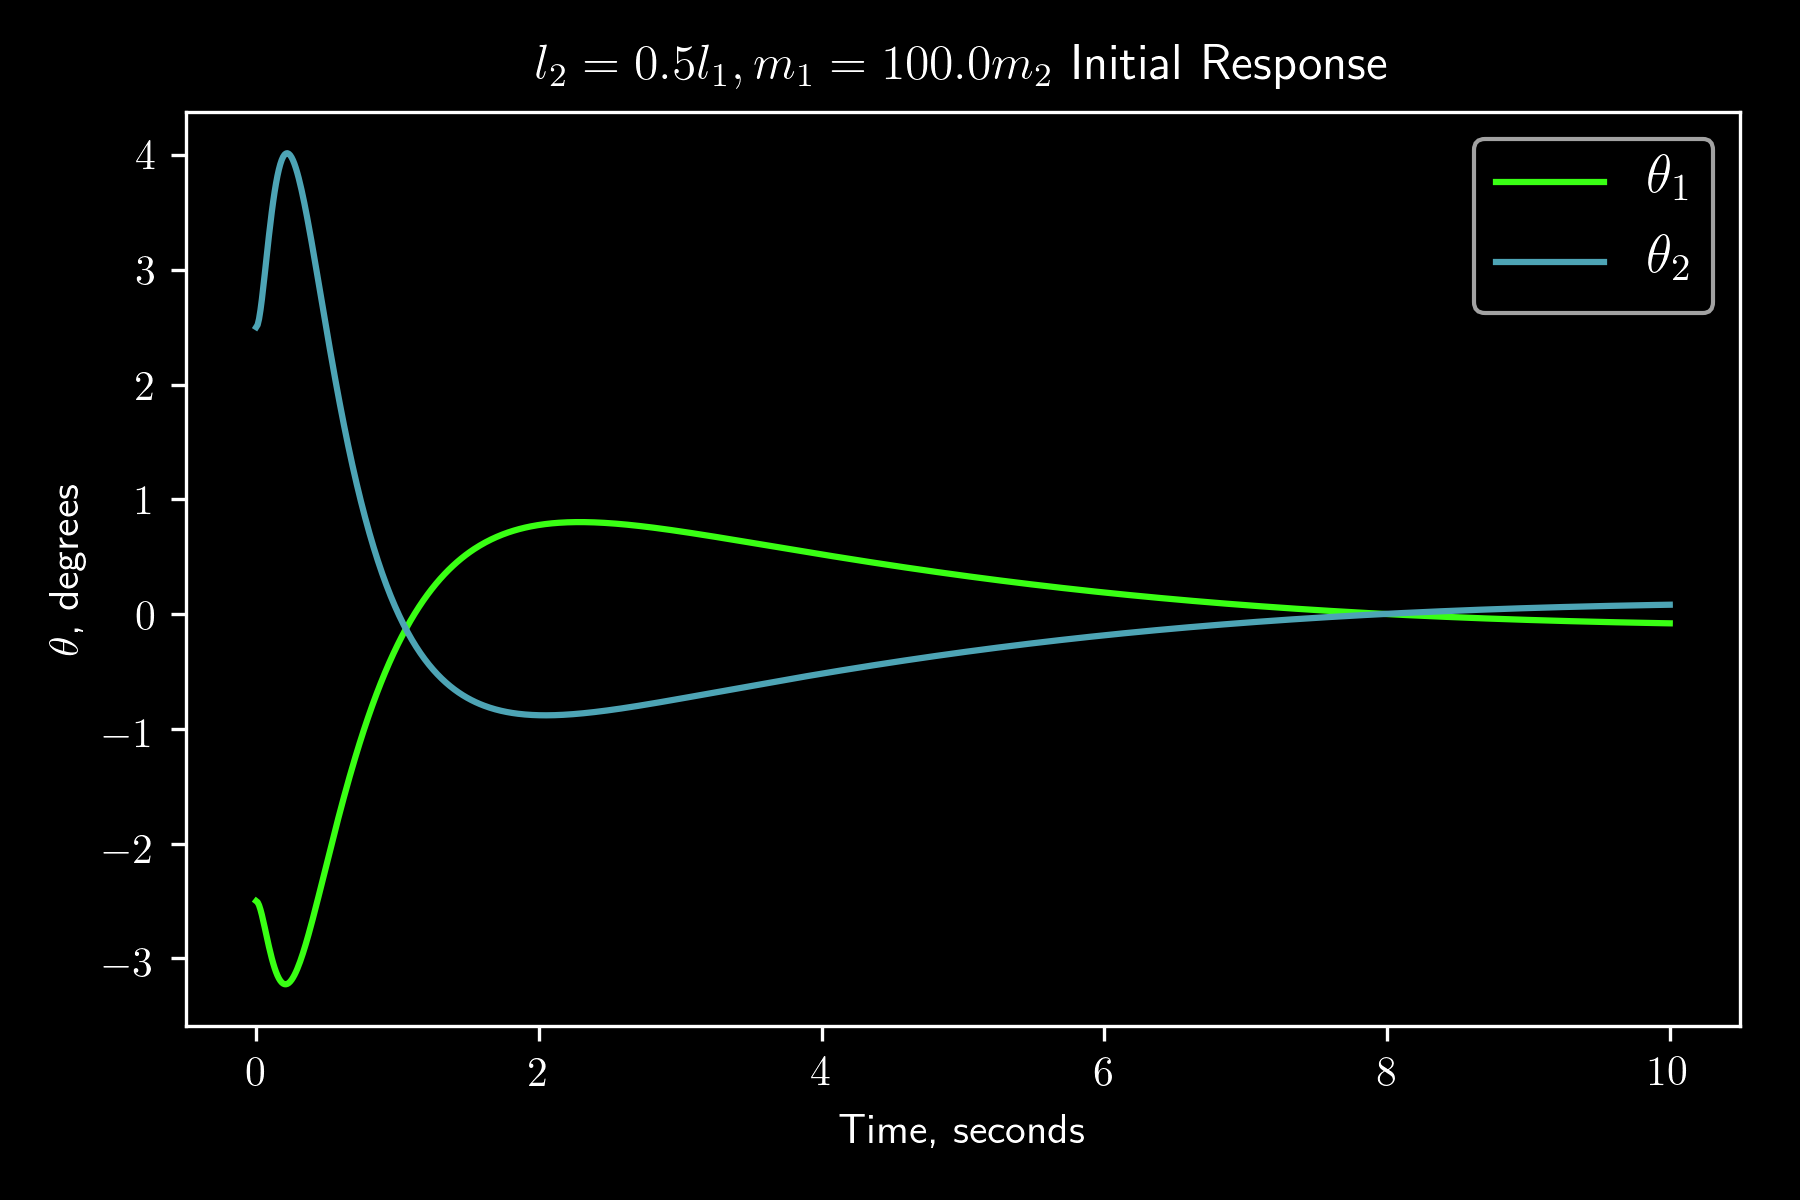
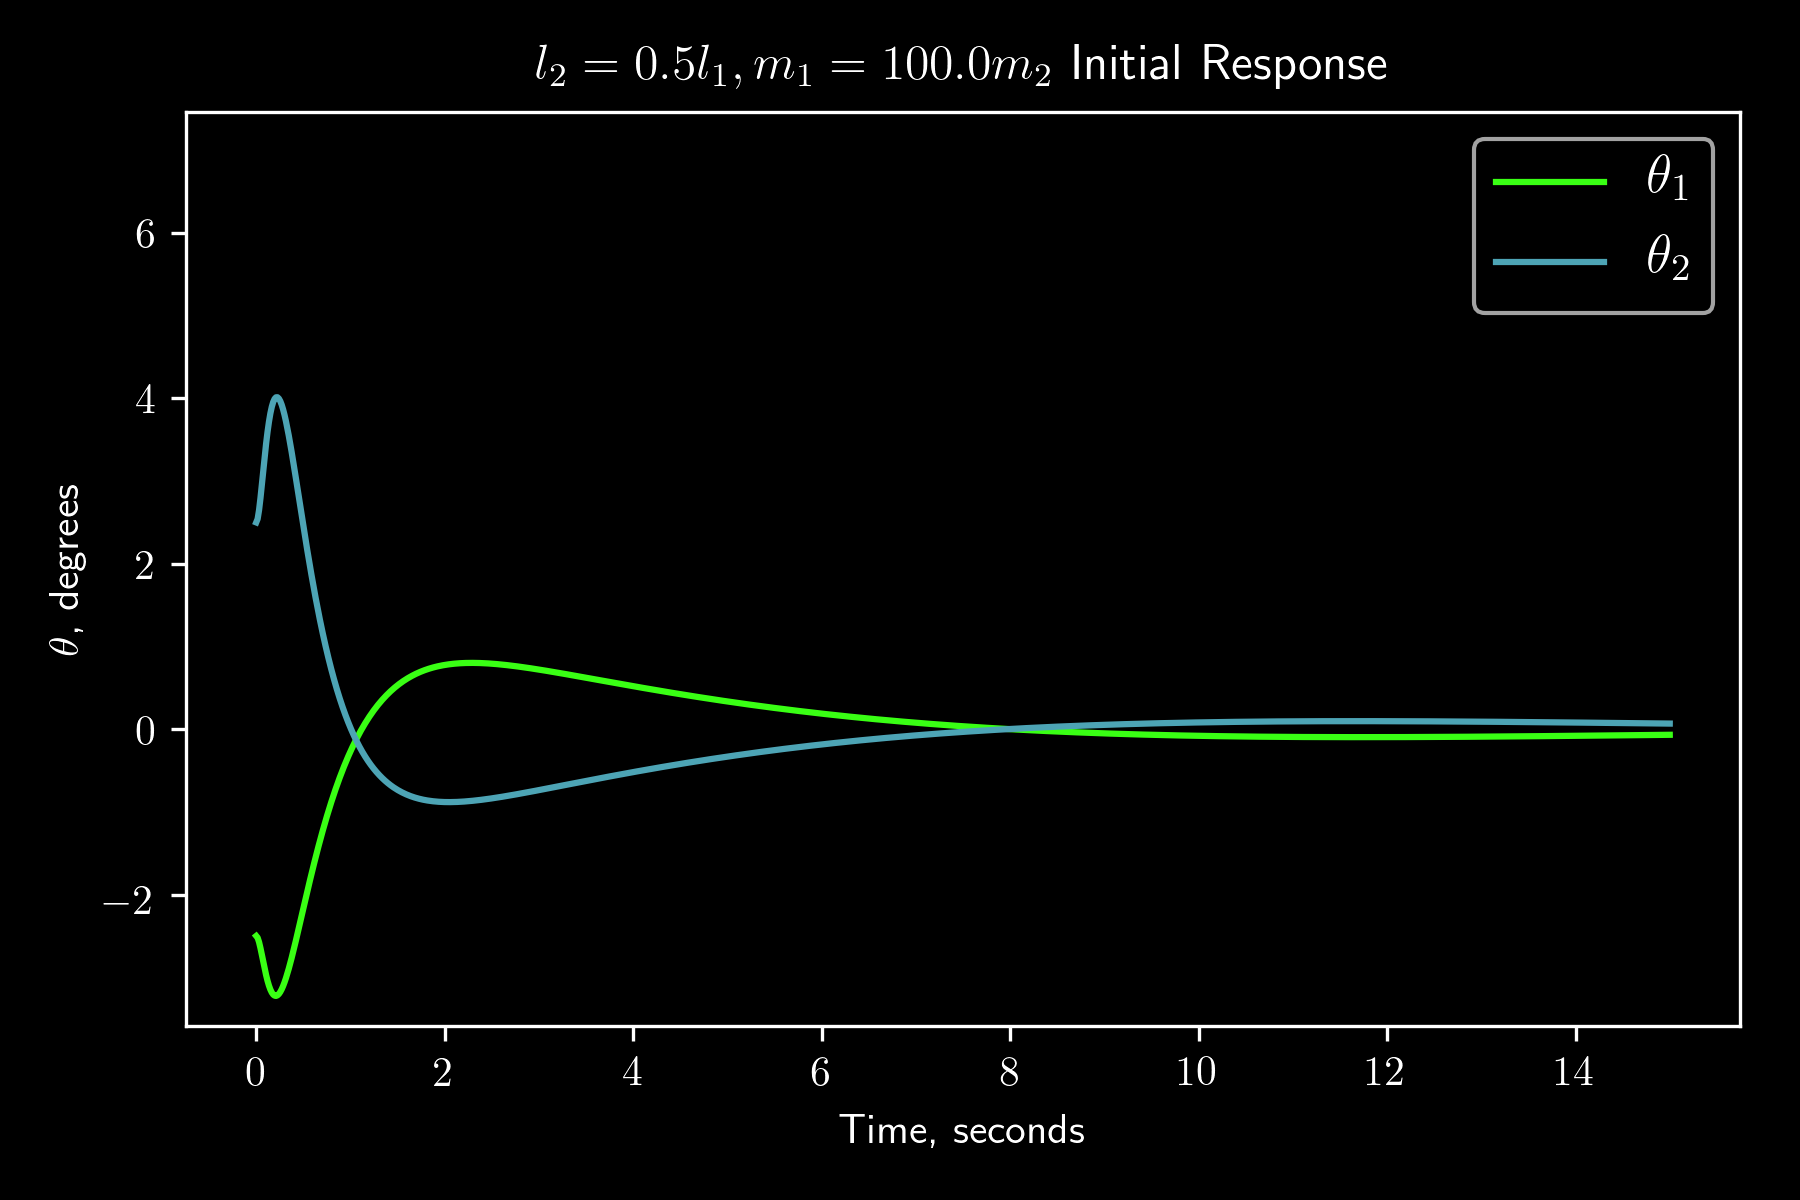
Changed the axes to match on figures

diff --git a/Derivation.py b/Derivation.py
@@ -142,7 +142,7 @@ l1stabcond = solve(Qc.det(),l1)[0]
 
 # Numerical values for the matrices
 l1n = 2 # 
-l2n = 1
+l2n = 1.8
 m1n = 0.1
 m2n = 0.1
 Mn  = 1 # kg
@@ -188,7 +188,7 @@ K, S, E = control.lqr(sys, Q, R)
 Ac = An-Bn*K
 
 x0 = [x10, dx10, t10, dt10, t20, dt20]
-tspan = np.linspace(0,10,1000)
+tspan = np.linspace(0,15,1000)
 
 sysc = control.ss(Ac,Bn,Cn,D) 
 
@@ -308,7 +308,9 @@ ax3.set_title(ictitle)
 # align the zeros
 #align_yaxis(ax3, 0, ax3R, 0)
 align_yaxis_np(ax3, ax3R)
+
 ax3Rlims = [ax3R.get_xlim()[0], ax3R.get_xlim()[1], ax3R.get_ylim()[0], ax3R.get_ylim()[1]]
+xicline.axes.axis(ax3Rlims)
 fig3.tight_layout()
 plt.show()
 fig3.savefig(fileloc+'initial_response_wx_' + filecondition+'.png', dpi=300)
@@ -336,6 +338,7 @@ t1icline, = ax2.plot(tcic,t1ic, label=r'$\theta_1$', color = '#39ff14')
 t2icline, = ax2.plot(tcic,t2ic, label=r'$\theta_2$', color = '#4DA4B5')
 ax2.legend(loc='upper right', prop={'size': 13})
 iclims = [ax0.get_xlim()[0], ax0.get_xlim()[1], ax3.get_ylim()[0], ax3.get_ylim()[1]]
+t1icline.axes.axis(iclims)
 ictitle = condition + r' Initial Response'
 ax2.set_title(ictitle)
 fig2.tight_layout()
@@ -385,6 +388,7 @@ ax5.set_title(impulsetitle)
 #align_yaxis(ax5, 0, ax5R, 0)
 align_yaxis_np(ax5, ax5R)
 ax5Rlims = [ax5R.get_xlim()[0], ax5R.get_xlim()[1], ax5R.get_ylim()[0], ax5R.get_ylim()[1]]
+ximpulseline.axes.axis(ax5Rlims)
 fig5.tight_layout()
 fig5.savefig(fileloc+'impulse_response_wx_' + filecondition + '.png', dpi=300)
 #def updateimpulse(num, timpulse, ximpulse, ximpulseline):
@@ -410,6 +414,7 @@ t1impulseline, = ax4.plot(tcic, t1impulse, label=r'$\theta_1$', color=t1color)
 t2impulseline, = ax4.plot(tcic, t2impulse, label=r'$\theta_2$', color=t2color)
 ax4.legend(loc='upper right', prop={'size': 13})
 impulselims = [ax1.get_xlim()[0], ax1.get_xlim()[1], ax5.get_ylim()[0], ax5.get_ylim()[1]]
+t1impulseline.axes.axis(impulselims)
 impulsetitle = condition + r' Impulse Response'
 ax4.set_title(impulsetitle)
 fig4.tight_layout()
